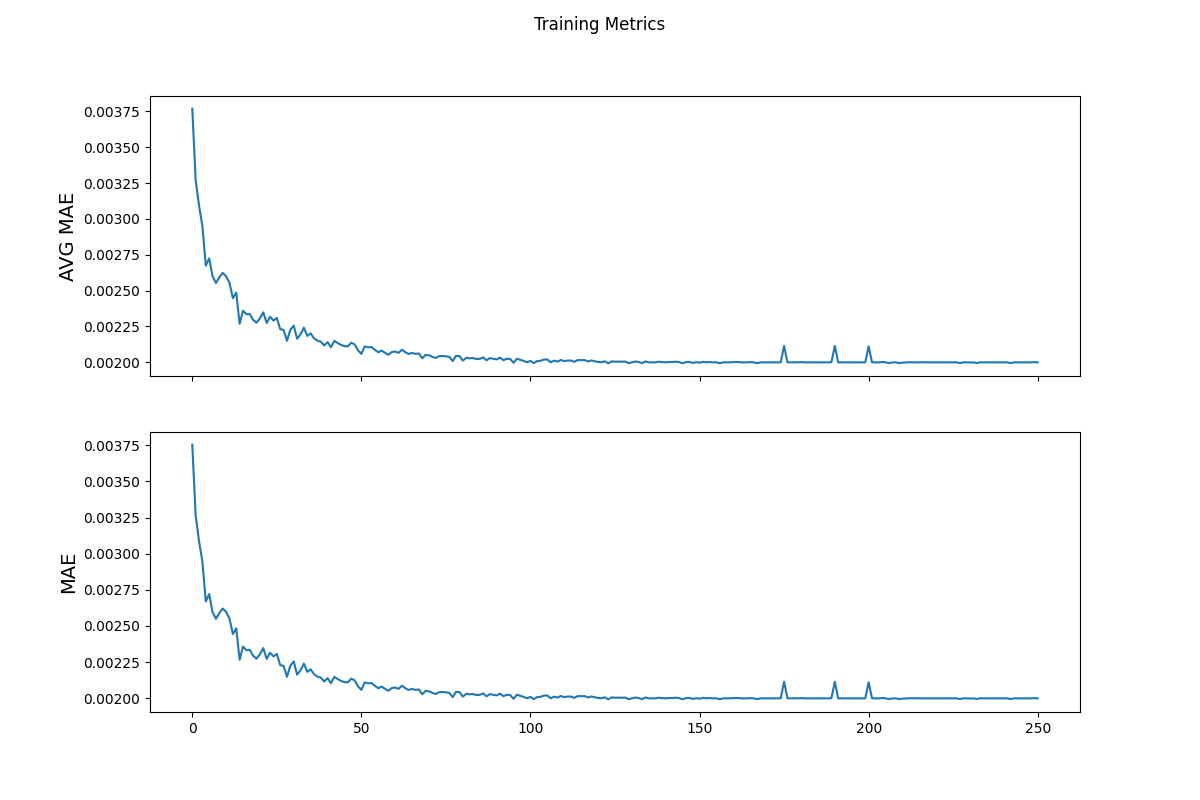
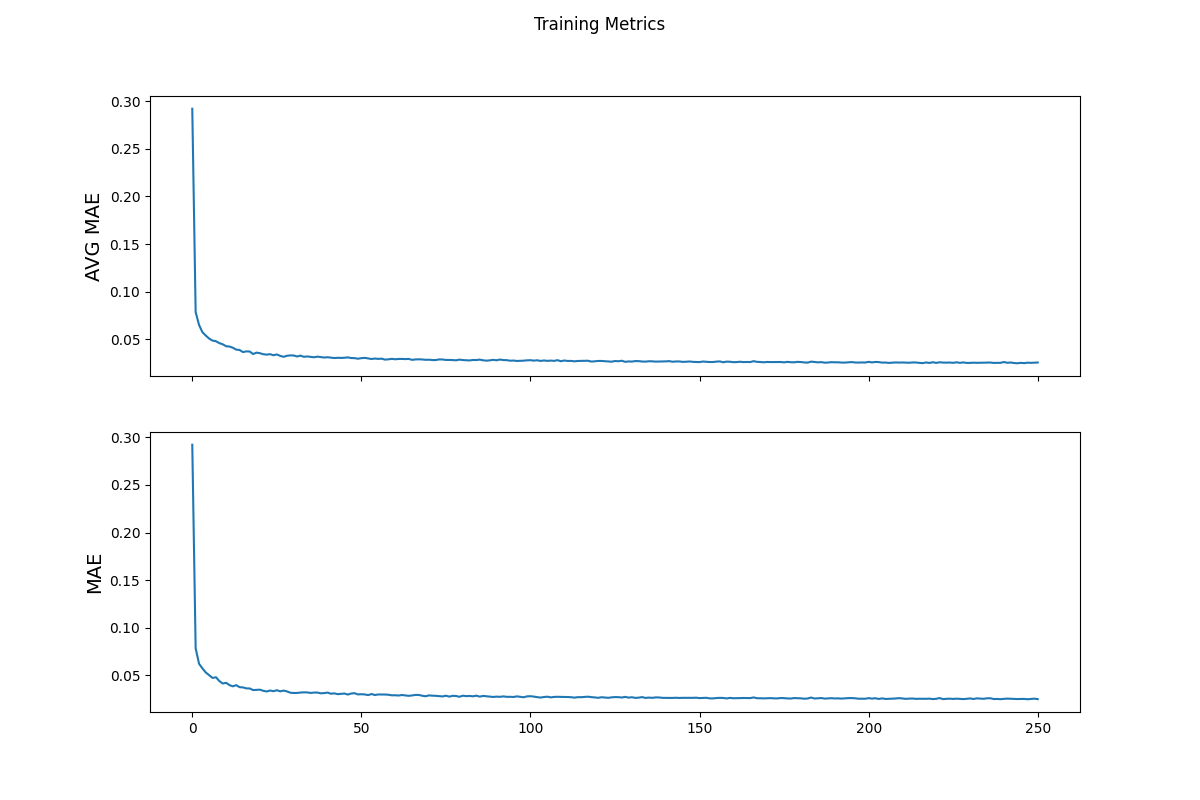
regularization added.

diff --git a/dnn_model.py b/dnn_model.py
@@ -36,10 +36,24 @@ def pack_features_vector(features, labels):
 train = dataset.map(pack_features_vector)
 #BUILD THE MODEL
 model = tf.keras.models.Sequential([
-    tf.keras.layers.Dense(20, activation='softmax', input_shape=(7,)),
-    #tf.keras.layers.Dropout(0.1),
-    #tf.keras.layers.Dense(10, activation='relu'),
-    tf.keras.layers.Dense(1, activation='relu')
+    tf.keras.layers.Dense(units=10, activation='relu', input_shape=(7,),
+                          kernel_regularizer=tf.keras.regularizers.l1_l2(l1=1e-5, l2=1e-4),
+                          bias_regularizer=tf.keras.regularizers.l2(1e-4),
+                          activity_regularizer=tf.keras.regularizers.l2(1e-5)),
+    tf.keras.layers.Dropout(0.1),
+    tf.keras.layers.Dense(
+        units=64,
+        activation='relu',
+        kernel_regularizer=tf.keras.regularizers.l1_l2(l1=1e-5, l2=1e-4),
+        bias_regularizer=tf.keras.regularizers.l2(1e-4),
+        activity_regularizer=tf.keras.regularizers.l2(1e-5)),
+    tf.keras.layers.Dense(
+        units=12,
+        activation='relu',
+        kernel_regularizer=tf.keras.regularizers.l1_l2(l1=1e-5, l2=1e-4),
+        bias_regularizer=tf.keras.regularizers.l2(1e-4),
+        activity_regularizer=tf.keras.regularizers.l2(1e-5)),
+    tf.keras.layers.Dense(1)
 ])
 print(model.summary())
 #TRAIN
@@ -103,3 +117,11 @@ axes[1].plot(train_accuracy_results)
 
 plt.savefig('plots/training_metrics.png')
 plt.show()
+
+ls = []
+for t, l in train:
+    t = scalar(t)
+    p = model(t)
+    ls.append(loss(model, t, l, True))
+    print(l)
+    print(p)
